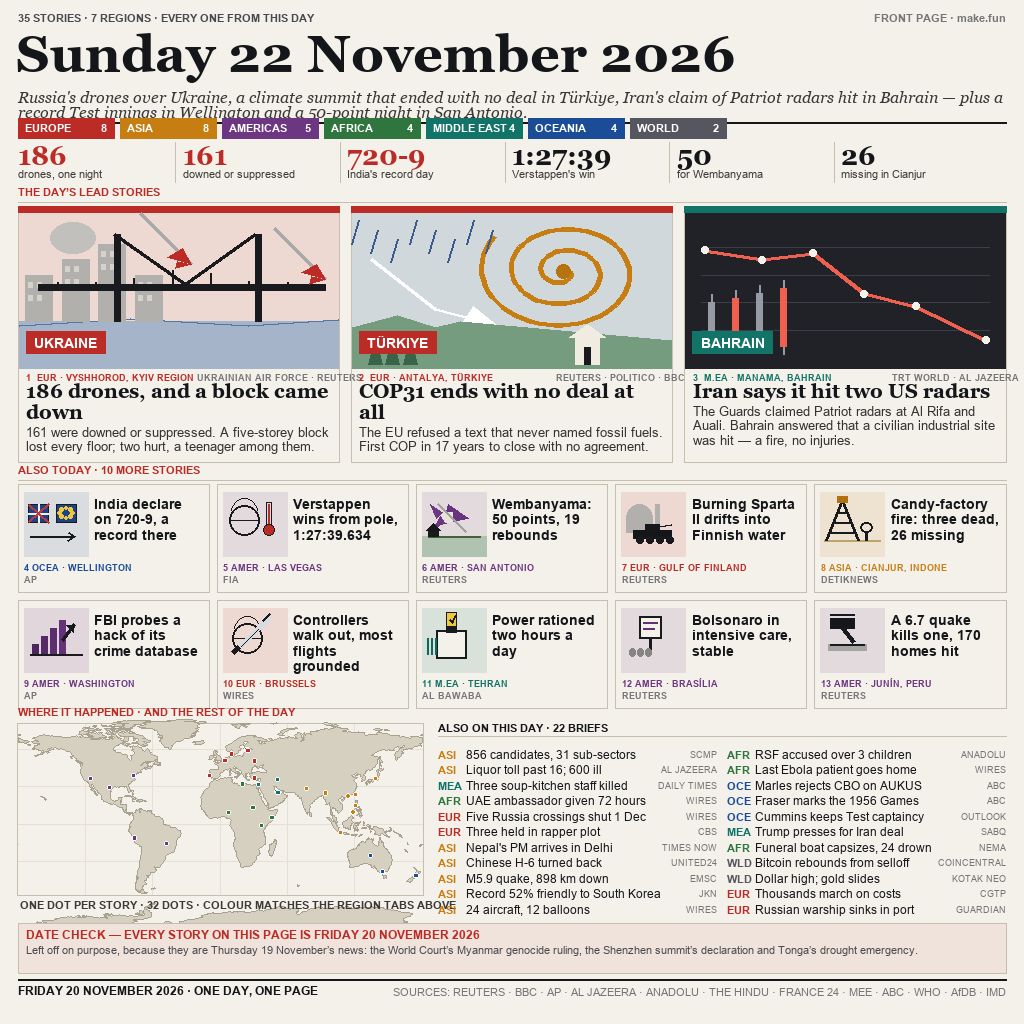
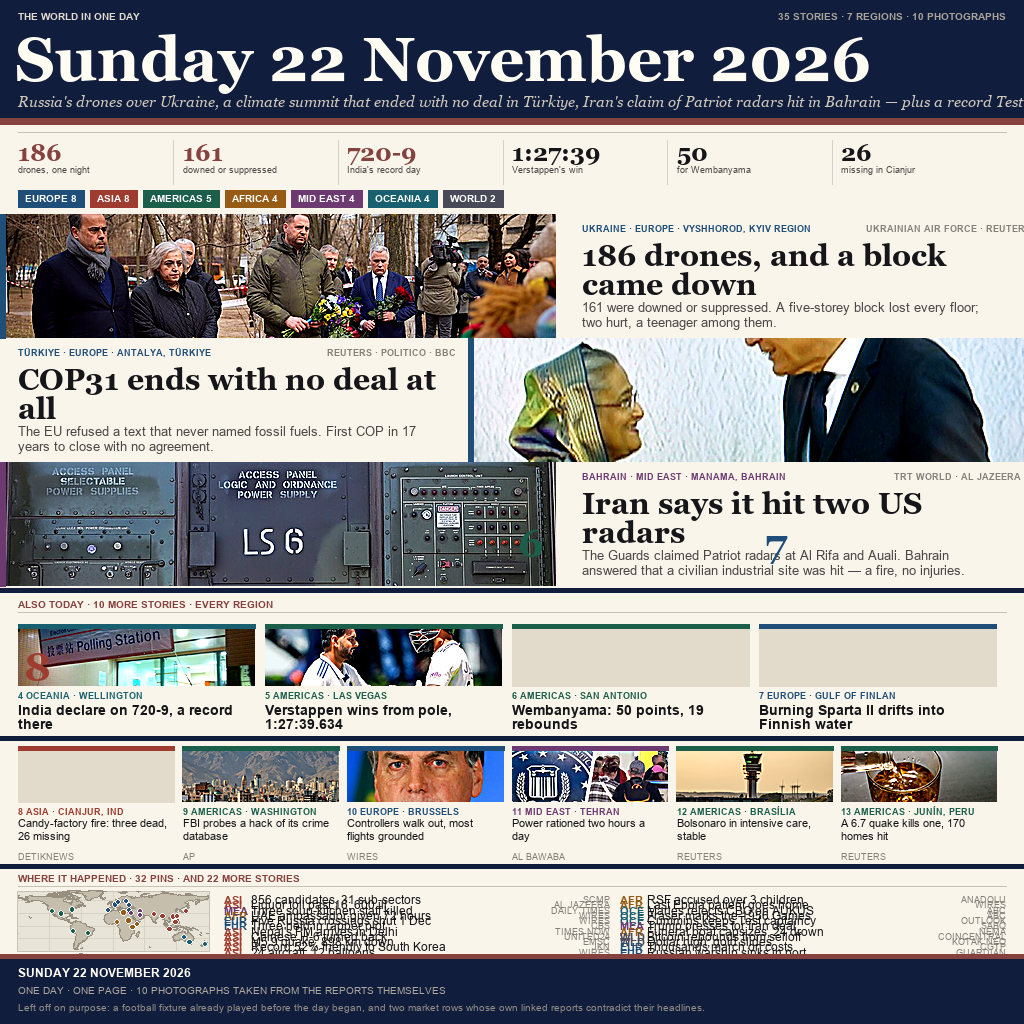
Rebuild as full-bleed bands with photographs from the reports themselves

diff --git a/README.md b/README.md
@@ -10,17 +10,24 @@ outlet that reported it.
 
 ## What this is
 
-A single 1024 by 1024 image, laid out the way a newspaper front page is laid out. Three leads
-run across the top with the biggest type on the page. Beneath them sits a world map, one pin per
-region, so a reader can see at a glance that the day was not one continent's day. Under the map
-come ten picture cards, and filling the remaining columns are twenty-two short briefs. The date
-sits at the very top where it cannot be missed, and the footer repeats it.
+A single 1024 by 1024 image, laid out the way a newspaper front page is laid out, but built from
+horizontal bands that run edge to edge rather than from a grid of boxes. The masthead is a navy
+block carrying the date at the largest size on the page. Three lead bands follow, each one part
+photograph and part type, alternating left and right so the eye is pulled down the page. Then a
+four-up picture row, then a strip of six more stories, then the world map with a pin for every
+place, and a navy footer that repeats the date.
 
-The type sizes are chosen so the page still reads at thumbnail scale: the leads survive being
-shrunk to 300 pixels wide, and that is the test that decided most of the layout. A story that
-could not be read at that size was moved into the briefs, and a brief that could not be read at
-that size was cut rather than left on the page as noise. Ten picture cards carry the stories
-that a caption alone would have flattened.
+Ten of the stories wear a photograph. Each was lifted from the report that carried the story,
+from that page's own `og:image` metadata, so the picture shows the thing the caption describes.
+Nothing is drawn or generated, because an illustration of a story is a claim about what happened
+and a wrong picture is a factual error. Where a report carried no usable photograph the story is
+set in type alone, at a size that still reads, rather than filled with an image that does not
+show it.
+
+The type sizes are chosen so the page still reads at thumbnail scale. The leads use a 30-pixel
+serif and survive being shrunk to 300 pixels across, and that is the test that decided most of
+the layout. A story that could not be read at that size was moved into the briefs, and a brief
+that could not be read at that size was cut rather than left on the page as noise.
 
 ## The program
 

diff --git a/SOURCES.md b/SOURCES.md
@@ -5,6 +5,15 @@ below match the numerals printed on the page, so a reader can take any caption a
 report behind it. Where a story was read through an aggregator, the aggregator is named in the
 same line as the original outlet.
 
+## Photographs
+
+Ten of the stories carry a photograph. Each one was taken from the report that carried the story
+itself, from the page's own `og:image` metadata at the link listed below, and none was drawn or
+generated. A story whose report carried no usable picture is set in type alone rather than
+illustrated with something that does not show it. The photograph credit on each card names the
+outlet the picture came from, so a reader can trace any image back to its source page.
+
+
 **1. Kyiv region, Ukraine** — Russia fires 186 drones overnight. A five-storey block in the Kyiv
 region loses every floor, and two people are hurt, a teenager among them.
 - RBC Ukraine, read on MSN — https://www.msn.com/en-ca/news/other/russia-strikes-ukraine-with-186-drones-overnight-air-defense-s-work-reported/ar-AA2hXEI6
